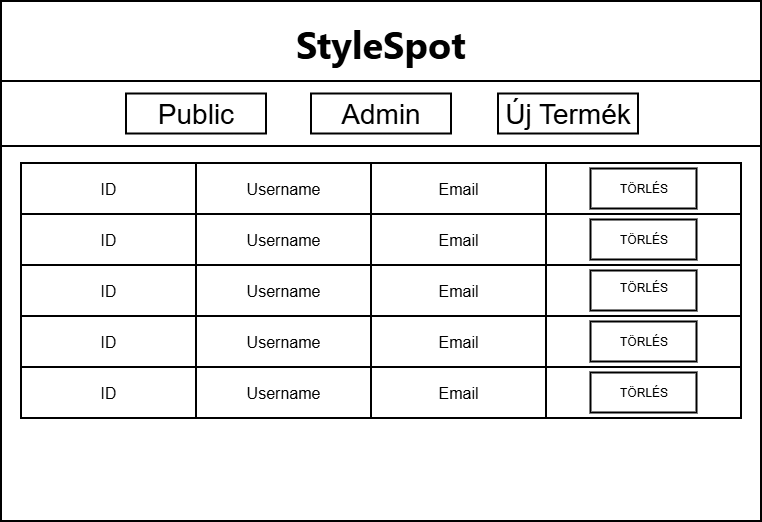
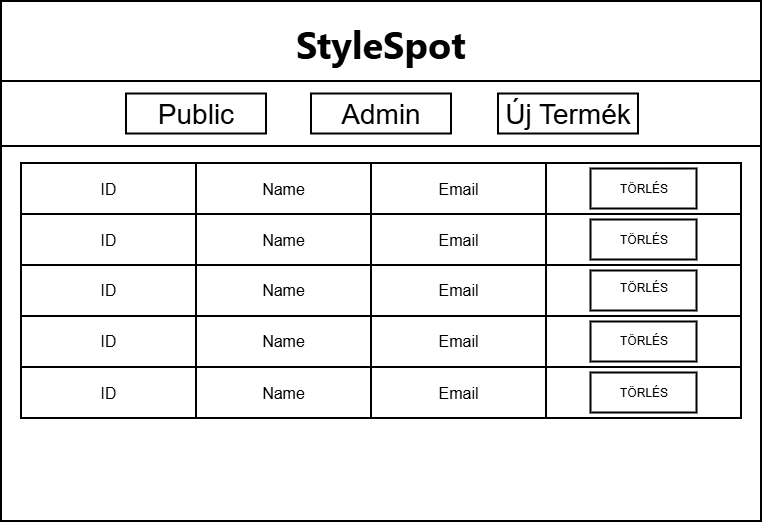
type, services, context kesz

diff --git a/gyakorlasFrontend/src/contexts/ProductContext.tsx b/gyakorlasFrontend/src/contexts/ProductContext.tsx
@@ -1,0 +1,39 @@
+import { createContext, useContext, useEffect, useState, type ReactNode } from "react";
+import type { ProductType } from "../type/productType";
+import { getProducts } from "../services/ProductService";
+
+interface ProductContextType{
+    productList: ProductType[];
+    load: boolean;
+    error: string | null;
+}
+
+const ProductContext = createContext<ProductContextType | undefined>(undefined);
+
+export function ProductProvider({children}: {children: ReactNode}){
+    const [productList, setProductList] = useState<ProductType[]>([]);
+    const [load, setLoad] = useState<boolean>(true);
+    const [error, setError] = useState<string | null>(null);
+    useEffect(() => {
+        getProducts().then((data) => {
+            setProductList(data);
+            setError(null);
+        }).catch(() => {
+            setError("Nem sikerült betölteni az adatokat!");
+        }).finally(() => {
+            setLoad(false);
+        });
+    }, []);
+
+    return (
+        <ProductContext.Provider value = {{productList, load, error}}>{children}</ProductContext.Provider>
+    );
+}
+
+export function useUserContext(){
+    const context = useContext(ProductContext);
+    if(context == undefined){
+        throw new Error("Csak a ProductProvider-en belül használható");
+    }
+    return context;
+}

diff --git a/gyakorlasFrontend/src/contexts/UserContext.tsx b/gyakorlasFrontend/src/contexts/UserContext.tsx
@@ -1,0 +1,40 @@
+import { createContext, useContext, useEffect, useState, type ReactNode } from "react";
+import type { UserType } from "../type/userType";
+import { getUsers } from "../services/UserService";
+
+interface UserContextType{
+    userList: UserType[];
+    load: boolean;
+    error: string | null;
+}
+
+const UserContext = createContext<UserContextType | undefined>(undefined);
+
+export function UserProvider({children}: {children: ReactNode}) {
+    const [userList, setUserList] = useState<UserType[]>([]);
+    const [load, setLoad] = useState<boolean>(true);
+    const [error, setError] = useState<string | null>(null);
+
+    useEffect(() => {
+        getUsers().then((data) => {
+            setUserList(data);
+            setError(null);
+        }).catch(() => {
+            setError("Nem sikerült betölteni az adatokat!");
+        }).finally(() => {
+            setLoad(false);
+        });
+    }, []);
+
+    return (
+        <UserContext.Provider value = {{userList, load, error}}>{children}</UserContext.Provider>
+    );
+}
+
+export function useUserContext(){
+    const context = useContext(UserContext);
+    if(context == undefined){
+        throw new Error("Csak a UserProvider-en belül használható");
+    }
+    return context;
+}

diff --git a/gyakorlasFrontend/src/services/ProductService.ts b/gyakorlasFrontend/src/services/ProductService.ts
@@ -1,0 +1,12 @@
+import type { ProductType } from "../type/productType";
+
+const API_vegpont = "http://127.0.0.1:8000/api/products";
+
+export function getProducts(){
+    return fetch(API_vegpont).then((response) => {
+        if(!response.ok){
+            throw new Error("Faild to fetch product");
+        }
+        return response.json() as Promise<ProductType[]>;
+    });
+}

diff --git a/gyakorlasFrontend/src/services/UserService.ts b/gyakorlasFrontend/src/services/UserService.ts
@@ -1,0 +1,12 @@
+import type { UserType } from "../type/userType";
+
+const API_vegpont = "http://127.0.0.1:8000/api/users";
+
+export function getUsers(){
+    return fetch(API_vegpont).then((response) => {
+        if(!response.ok){
+            throw new Error("Faild to fetch product");
+        }
+        return response.json() as Promise<UserType[]>;
+    });
+}

diff --git a/gyakorlasFrontend/src/type/ProductType.ts b/gyakorlasFrontend/src/type/ProductType.ts
@@ -1,0 +1,8 @@
+export interface ProductType {
+  id: number;
+  seller_id: number;
+  title: string;
+  description: string;
+  price: number;
+  picture: string;
+}

diff --git a/gyakorlasFrontend/src/type/UserType.ts b/gyakorlasFrontend/src/type/UserType.ts
@@ -1,0 +1,5 @@
+export interface UserType {
+  id: number;
+  name: string;
+  email: string;
+}
